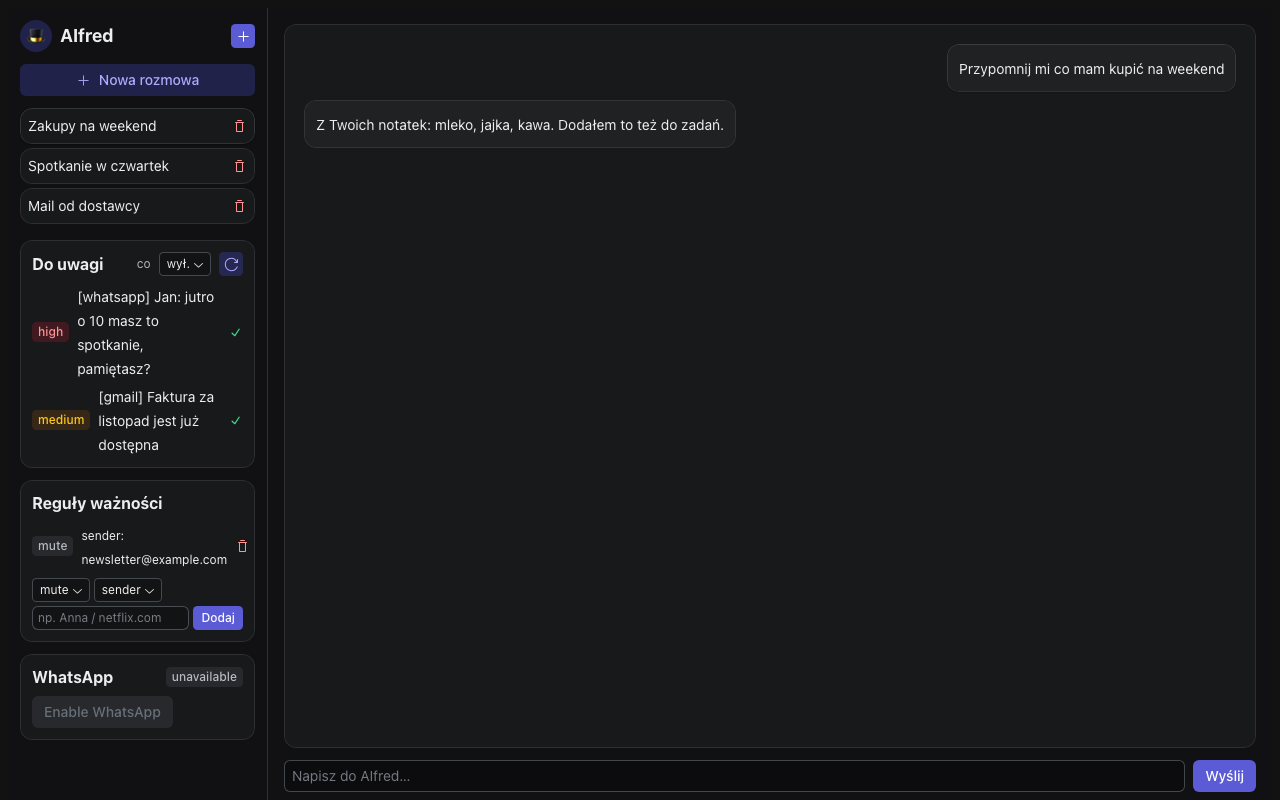
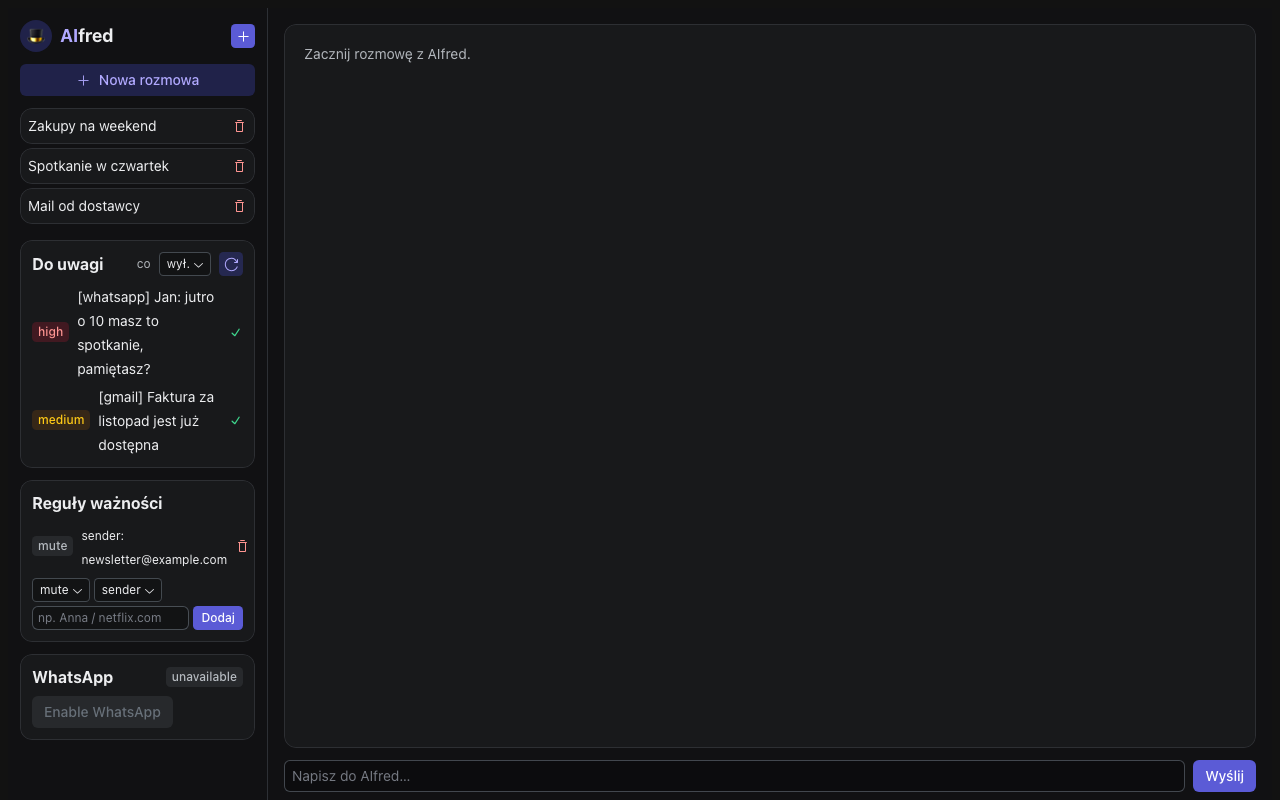
fix(web): set the AI in the AIfred heading in the accent colour
In Inter the capital I renders like a lowercase l, so the heading and
the README screenshot read as "Alfred". Colouring "AI" keeps the name
legible without touching the layout.

Claude-Session: https://claude.ai/code/session_01RREMLVnjTNFVctfzGJP88A

diff --git a/web/src/App.tsx b/web/src/App.tsx
@@ -146,7 +146,8 @@ export function App() {
         <Flex justify="between" align="center" mb="3">
           <Flex align="center" gap="2">
             <Avatar size="2" radius="full" src="/alfred.png" fallback="🎩" />
-            <Heading size="4">AIfred</Heading>
+            {/* In Inter a capital I next to l-shaped glyphs reads as "Alfred"; the accent keeps "AI" legible. */}
+            <Heading size="4"><Text color="iris">AI</Text>fred</Heading>
           </Flex>
           <IconButton size="1" onClick={startNew} title="Nowa sesja">
             <PlusIcon />
